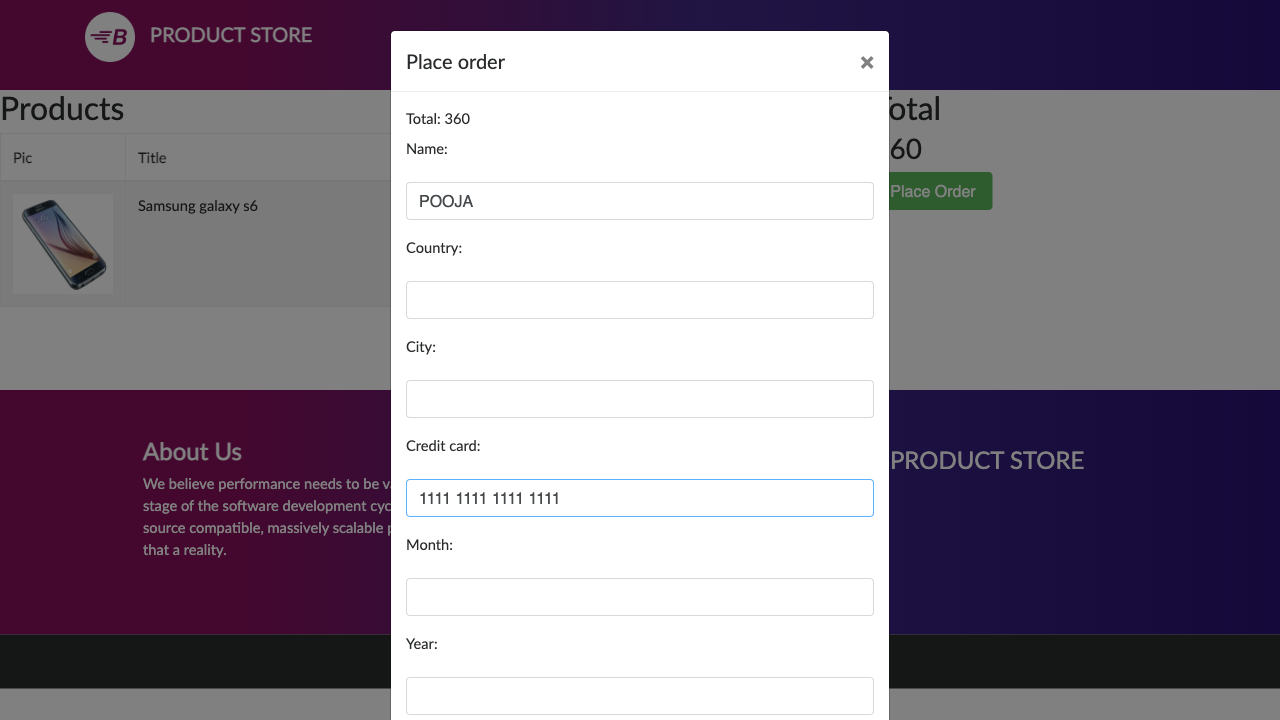
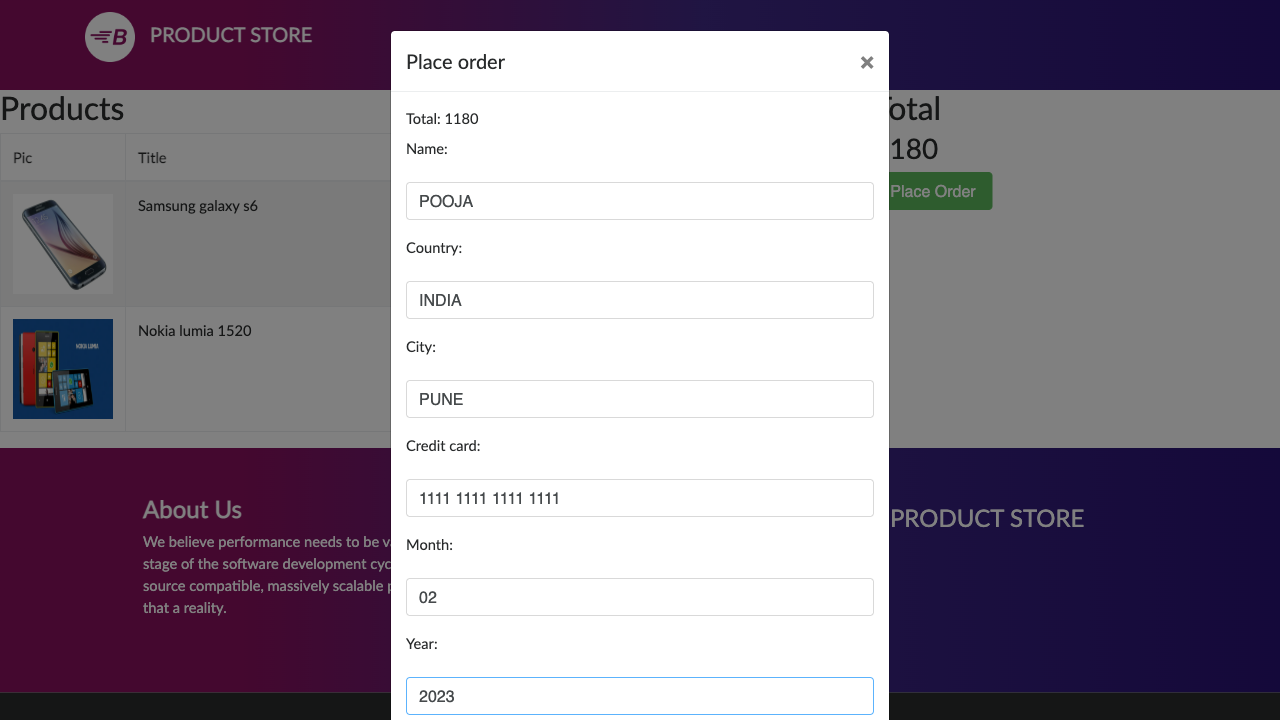
Add two product in cart tc

diff --git a/tests/checkoutPage.spec.js b/tests/checkoutPage.spec.js
@@ -4,6 +4,8 @@ import ProductPage from '../pageObjects/ProductPage';
 import CartPage from '../pageObjects/CartPage';
 import CheckoutPage from '../pageObjects/CheckoutPage';
 import ScreenShotUtils from '../utils/ScreenShotUtils';
+//import PRODUCT_NAME from '../constants/index'
+const {PRODUCT} = require('../constants/index');
 
 test('Add one Product', async ({ page },testInfo) => {
     const homePage = new HomePage(page);
@@ -14,8 +16,8 @@ test('Add one Product', async ({ page },testInfo) => {
 
     await homePage.navigateToHomePageAndValidate(page);
 
-    await productPage.clickWebElementProductOnHomePage(page);
-    await productPage.validateProductPage(page);
+    await productPage.clickWebElementProductOnHomePage(page,PRODUCT.SAMNSUNG.NAME);
+    await productPage.validateProductPage(page,PRODUCT.SAMNSUNG.PATH);
     await productPage.clickWebElementAddProductToCart(page);
     await screentShot.takeScreenShot(page,testInfo,'addToCartCompleted')
 
@@ -31,6 +33,8 @@ test('Add one Product', async ({ page },testInfo) => {
     await screentShot.takeScreenShot(page,testInfo,'checkoutPage')
     await checkoutPage.validatePurchaseSuccessful(page)
     await screentShot.takeScreenShot(page,testInfo,'purchaseSuccess')
+
+
 });
 
 test('Add same Product to cart twice', async ({ page },testInfo) => {
@@ -42,21 +46,31 @@ test('Add same Product to cart twice', async ({ page },testInfo) => {
 
     await homePage.navigateToHomePageAndValidate(page);
 
-    await productPage.clickWebElementProductOnHomePage(page);
-    await productPage.validateProductPage(page);
+    await productPage.clickWebElementProductOnHomePage(page,PRODUCT.SAMNSUNG.NAME);
+    await productPage.validateProductPage(page,PRODUCT.SAMNSUNG.PATH);
     await productPage.clickWebElementAddProductToCart(page);
-    console.log("Adding same product twice")
-    await productPage.clickWebElementAddProductToCart(page);
-
-    await cartPage.clickWebElementCartPage(page,1);
     await screentShot.takeScreenShot(page,testInfo,'addToCartCompleted')
-    await cartPage.validateProductOnCartPage(page);
 
+    await cartPage.clickWebElementCartPage(page);
+
+    console.log("Add same product again")
+    await homePage.navigateToHomePageAndValidate(page);
+
+    await productPage.clickWebElementProductOnHomePage(page,PRODUCT.NOKIA.NAME);
+    await productPage.validateProductPage(page,PRODUCT.NOKIA.PATH);
+    await productPage.clickWebElementAddProductToCart(page);
+    await screentShot.takeScreenShot(page,testInfo,'addToCartCompleted') 
     
-    await checkoutPage.clickWebElementPlaceOrder(page,2);
+    await cartPage.clickWebElementCartPage(page);
+
+    await cartPage.validateProductOnCartPage(page);
     await screentShot.takeScreenShot(page,testInfo,'cartPage')
+
+    await checkoutPage.clickWebElementPlaceOrder(page,2);
     await checkoutPage.validateCheckoutPage(page);
     await checkoutPage.enterMandatoryCheckoutDetails(page);
+    await checkoutPage.enterOptionCheckoutDetails(page);
+ 
     await checkoutPage.clickPurchase(page);
     await screentShot.takeScreenShot(page,testInfo,'checkoutPage')
     await checkoutPage.validatePurchaseSuccessful(page)

diff --git a/pageObjects/ProductPage.js b/pageObjects/ProductPage.js
@@ -1,7 +1,8 @@
 const { expect } = require("@playwright/test");
 const commonLocators = require('../utils/CommonLocators')
 const commonValidators = require('../utils/CommonValidators')
-const {PRODUCT_PAGE,DIALOG_MESSAGE, PRODUCT_NAME,BUTON_TEXT,ROLE_TYPE } = require('../constants/index');
+const {PRODUCT_PAGE,MESSAGE, PRODUCT_NAME,BUTON_TEXT,ROLE_TYPE } = require('../constants/index');
+const actualDialogMessage ="";
 class ProductPage{
     constructor(page,log) {
         this.page = page
@@ -13,30 +14,32 @@ class ProductPage{
     }
     
     
-    async clickWebElementProductOnHomePage(page){
+    async clickWebElementProductOnHomePage(page,productName){
         console.log("********** Start clickWebElementProductOnHomePage ********** \n")
-        const webElement = await this.commonLocators.getWebElementByRole(page,ROLE_TYPE.LINK, PRODUCT_NAME.SAMNSUNG)
+        const webElement = await this.commonLocators.getWebElementByRole(page,ROLE_TYPE.LINK, productName)
         const checkContent = await this.commonLocators.getTextContentForWebElement(webElement)
         await webElement.click()
         console.log("********** Finish clickWebElementProductOnHomePage ********** \n")
     }
-    async validateProductPage(page){
+    async validateProductPage(page,productPath){
         console.log("********** Start validateProductPage ********** \n")
         this.currentUrl = page.url()
-        this.commonValidators.validateWebElementToContainText(this.currentUrl, PRODUCT_PAGE)
+        this.commonValidators.validateWebElementToContainText(this.currentUrl, productPath)
         console.log("********** Finish validateProductPage ********** \n")
     }
 
     async clickWebElementAddProductToCart(page){
         console.log("********** Start clickWebElementAddProductToCart ********** \n")
 
-        page.on('dialog', dialog => {
+        page.once('dialog', dialog => {
         dialog.accept()
         console.log("dialog message")
         console.log(dialog.message())
-        this.commonValidators.validateWebElementToContainText(dialog.message(),DIALOG_MESSAGE)
+        this.commonValidators.validateWebElementToContainText(dialog.message(),MESSAGE.DIALOG_MESSAGE)
+ 
         });
         const webElement = await this.commonLocators.getWebElementByRole(page,ROLE_TYPE.LINK, BUTON_TEXT.ADD_TO_CART)
+
         webElement.click()
         console.log("********** Finish clickWebElementAddProductToCart ********** \n")
     }

diff --git a/pageObjects/CheckoutPage.js b/pageObjects/CheckoutPage.js
@@ -1,7 +1,7 @@
 const { expect } = require("@playwright/test");
 const commonLocators = require('../utils/CommonLocators')
 const commonValidators = require('../utils/CommonValidators')
-const {BUTON_TEXT,ROLE_TYPE,LABEL, ADD_ORDER_DETAILS } = require('../constants/index');
+const {BUTON_TEXT,ROLE_TYPE,LABEL, ADD_ORDER_DETAILS, MESSAGE } = require('../constants/index');
 let actualAmount = ""
 class CheckoutPage{
     constructor(page,log) {
@@ -14,8 +14,9 @@ class CheckoutPage{
     
     async clickWebElementPlaceOrder(page,item){
         console.log("********** Start clickWebElementPlaceOrder ********** \n")
-        const amountWebElement = await this.commonLocators.getWebElementByXPathBasedOnTagNameValue(page,'h3','id','totalp')
-        await this.commonValidators.validateWebElementCount(amountWebElement,item)
+        
+        const amountWebElement = await page.locator(`//h3[@id='totalp']`).first();
+        await this.commonValidators.validateWebElementCount(amountWebElement,1)
         actualAmount = await this.commonLocators.getTextContentForWebElement(await amountWebElement)
         const webElement = await this.commonLocators.getWebElementByRole(page,ROLE_TYPE.BUTTON,BUTON_TEXT.PLACE_ORDER)
         await webElement.click()
@@ -65,6 +66,7 @@ class CheckoutPage{
         console.log("********** Start clickPurchase ********** \n")
         const webElement = await this.commonLocators.getWebElementByRole(page,ROLE_TYPE.BUTTON, BUTON_TEXT.PURCHASE)
         this.commonValidators.validateWebElementToBeVisible(webElement);
+        webElement.click()
         console.log("********** Finish clickPurchase ********** \n")
     }
 
@@ -72,6 +74,8 @@ class CheckoutPage{
         console.log("********** Start validatePurchaseSuccessful ********** \n")
         const webElement = await this.commonLocators.getWebElementByRole(page,ROLE_TYPE.BUTTON, BUTON_TEXT.OK)
         this.commonValidators.validateWebElementToBeVisible(webElement);
+        const successText = await page.locator("//h2[contains(text(),'Thank you for your purchase!')]").textContent()
+        this.commonValidators.validateWebElementToContainText(successText,MESSAGE.SUCCESS_MESSAGE)
         webElement.click();
         console.log("********** Finish validatePurchaseSuccessful ********** \n")
     }

diff --git a/tests/productPage.spec.js b/tests/productPage.spec.js
@@ -1,6 +1,7 @@
 import { test, expect } from '@playwright/test';
 import HomePage from '../pageObjects/HomePage';
 import ProductPage from '../pageObjects/ProductPage';
+const {PRODUCT} = require('../constants/index');
 
 test('click product, navigate to productPage and validate', async ({ page }) => {
     const homePage = new HomePage(page);
@@ -25,8 +26,8 @@ test('validate product added by clicking on popup ok', async ({ page },testInfo)
     const homePage = new HomePage(page);
     const productPage = new ProductPage(page);
     await homePage.navigateToHomePageAndValidate(page);
-    await productPage.clickWebElementProductOnHomePage(page);
-    await productPage.validateProductPage(page);
+    await productPage.clickWebElementProductOnHomePage(page,PRODUCT.SAMNSUNG.NAME);
+    await productPage.validateProductPage(page,PRODUCT.SAMNSUNG.PATH);
     await productPage.clickWebElementAddProductToCart(page,1);
     await page.screenshot({path:"screenshots/addToCartCompleted.png"})
     await testInfo.attach('addToCartCompleted', { body: await page.screenshot(), contentType: 'image/png' });

diff --git a/utils/CommonLocators.js b/utils/CommonLocators.js
@@ -47,8 +47,7 @@ class CommonLocators{
         console.log(`********** Finish getWebElementByXPathBasedOnTagNameValue ********** \n`)
         this.commonValidators.validateWebElementToBeVisible(page.locator(`//${tagName}[contains(@${LocatorName}, \'${LocatorValue}\')]`))
         return await page.locator(`//${tagName}[contains(@${LocatorName}, \'${LocatorValue}\')]`)
-             
-       
+               
     }
 
     async getWebElementByLabel(page, label){
@@ -64,7 +63,7 @@ class CommonLocators{
        
         console.log(`********** Start inputTextForWebElement ********** \n`) 
         console.log(`Input WebElement : ${webElement} With Text Input as ${inputText}`)
-        this.commonValidators.validateWebElementToBeVisible(webElement)
+        //this.commonValidators.validateWebElementToBeVisible(webElement)
         await webElement.fill(inputText)
         console.log(`********** Finish inputTextForWebElement ********** \n`) 
    

diff --git a/constants/index.js b/constants/index.js
@@ -1,9 +1,9 @@
 module.exports = {
     BASE_URL : 'https://www.demoblaze.com/index.html',
     TITLE : 'STORE',
-    PRODUCT_PAGE : 'https://www.demoblaze.com/prod.html?idp_=1',
-    PRODUCT_NAME :  {
-        SAMNSUNG : 'Samsung galaxy s6'
+    PRODUCT :  {
+        SAMNSUNG : {NAME:'Samsung galaxy s6', PATH:'https://www.demoblaze.com/prod.html?idp_=1'},
+        NOKIA :{'NAME': 'Nokia lumia 1520',PATH :'https://www.demoblaze.com/prod.html?idp_=2'}
     },
     BUTON_TEXT : {
         ADD_TO_CART : 'Add to cart',
@@ -34,6 +34,9 @@ module.exports = {
         MONTH : '02',
         YEAR : '2023',
     },
-    DIALOG_MESSAGE : 'Product added'
+    MESSAGE :{
+        DIALOG_MESSAGE :'Product added',
+        SUCCESS_MESSAGE : 'Thank you for your purchase!'
+    }
 
 }

diff --git a/pageObjects/CartPage.js b/pageObjects/CartPage.js
@@ -17,6 +17,8 @@ class CartPage{
         console.log("********** Start clickWebElementCartPage ********** \n")
         const webElement = await this.commonLocators.getWebElementByXPathBasedOnTagNameValue(page,'a', 'id','cartur')
         await webElement.click()
+        // const webElement = await page.locator(`//a[@id='cartur']`)
+        // await webElement.click({ timeout: 30000 })
         console.log("********** Finish clickWebElementCartPage ********** \n")
     }
     async validateProductOnCartPage(page){

diff --git a/playwright.config.js b/playwright.config.js
@@ -13,7 +13,7 @@ const { defineConfig, devices } = require('@playwright/test');
 module.exports = defineConfig({
   testDir: './tests',
   /* Maximum time one test can run for. */
-  timeout: 30 * 1000,
+  timeout: 50 * 1000,
   expect: {
     /**
      * Maximum time expect() should wait for the condition to be met.
